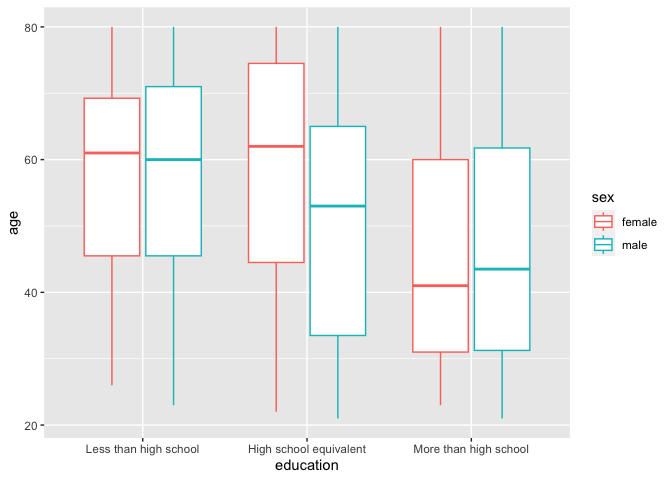
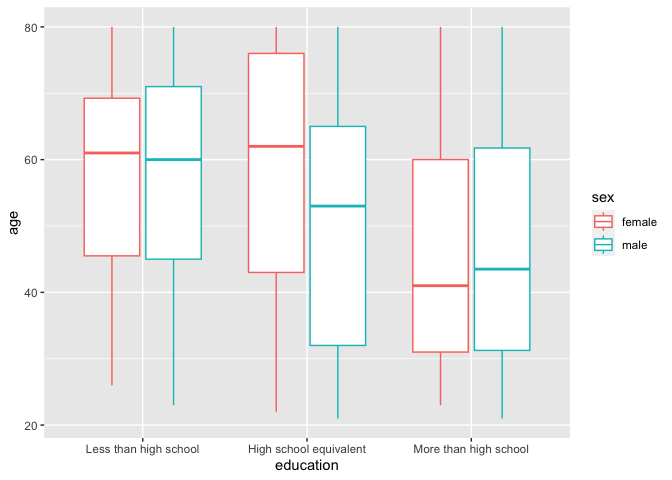
problem 3 activity plot draft

diff --git a/p8105_hw3_xt2288.md b/p8105_hw3_xt2288.md
@@ -307,8 +307,8 @@ a visualization of the age distributions for men and women in each
 education category
 
 ``` r
-nhanes_covar |>
-  group_by(education, sex) |>
+nhanes_merge |>
+  group_by(SEQN, education, sex) |>
   ggplot(aes(x = education, y = age, color = sex)) + 
   geom_boxplot()
 ```
@@ -318,11 +318,8 @@ less than high school level, the age distribution is about the same for
 both sex. In high school equivalent level, female has a greater age than
 male. In more than high school level, male has a slightly greater age.
 
-Using your tidied dataset, aggregate across minutes to create a total
-activity variable for each participant. Plot these total activities
-(y-axis) against age (x-axis); your plot should compare men to women and
-have separate panels for each education level. Include a trend line or a
-smooth to illustrate differences. Comment on your plot.
+Plot total activities (y-axis) against age (x-axis); the plot compare
+men to women and have separate panels for each education level.
 
 ``` r
 nhanes_merge |>
@@ -331,15 +328,40 @@ nhanes_merge |>
   ggplot(aes(x = age, y = total_act, color = sex)) +
   geom_point() +
   geom_smooth() +
-  facet_grid(. ~ education)
+  facet_grid(. ~ education) +
+  labs(
+    title = "Total Activity vs. Age",
+    x = "Age",
+    y = "Total Activiy"
+  )
 ```
 
     ## `geom_smooth()` using method = 'gam' and formula = 'y ~ s(x, bs = "cs")'
 
 ![](p8105_hw3_xt2288_files/figure-gfm/unnamed-chunk-17-1.png)<!-- -->
+The total activity decreases as the age increases for both men and
+women. In less than high school education level, women has a higher
+total activity around age 32, and men has a higher activity around age
+58. In the high school equivalent level, women has a higher total
+acitivity before age 50. After that age, men and women have the same
+trend. In more than high school level, men and women have about the same
+trend, except for age about 65 where female has a much higher total
+activity.
 
 Accelerometer data allows the inspection activity over the course of the
 day. Make a three-panel plot that shows the 24-hour activity time
 courses for each education level and use color to indicate sex. Describe
-in words any patterns or conclusions you can make based on this graph;
-including smooth trends may help identify differences.
+in words any patterns or conclusions you can make based on this graph
+
+``` r
+nhanes_merge |>
+  ggplot(aes(x = minute, y = MIMS_Value, color = sex)) +
+  geom_point(alpha = 0.5) +
+  geom_smooth(se = FALSE) +
+  facet_wrap( ~ education, nrow = 2) +
+  theme_minimal()
+```
+
+    ## `geom_smooth()` using method = 'loess' and formula = 'y ~ x'
+
+![](p8105_hw3_xt2288_files/figure-gfm/unnamed-chunk-18-1.png)<!-- -->
